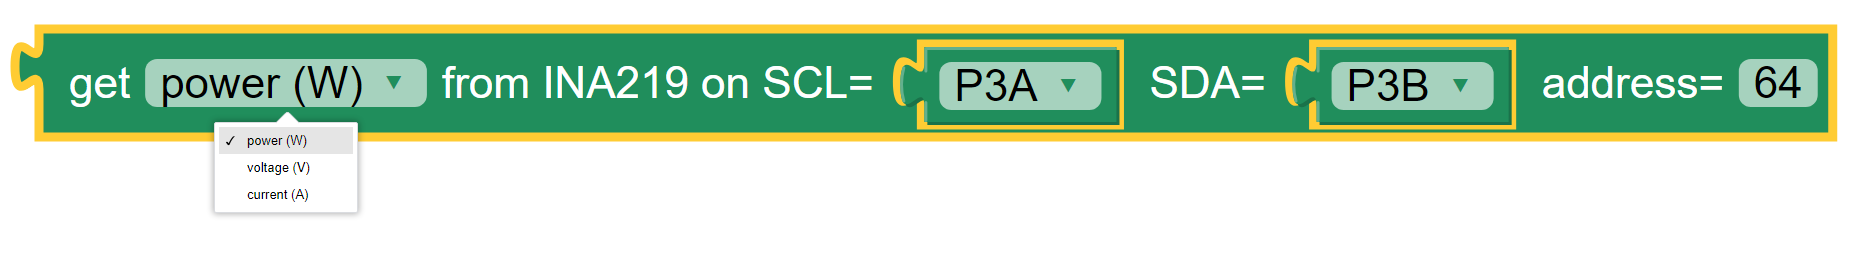
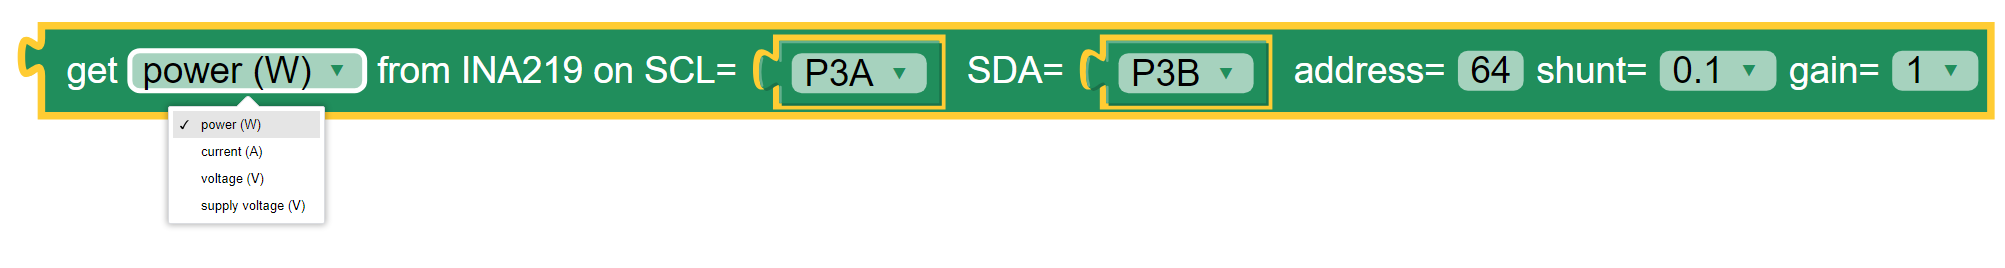
Updates actuators and sensors. Typos.

Changed region(s): [[0.0, 0.0597, 0.9978, 0.6269], [0.0624, 0.6269, 0.1871, 0.8657]]

diff --git a/docs/source/sensors.rst b/docs/source/sensors.rst
@@ -6,7 +6,7 @@ The Kookaberry contains two on-board sensors, being a 3-axis accelerometer and a
 3-axis magnetometer.  
 
 A large variety of external sensors may also be connected to the Kookaberry via its Pin connectors.  
-KookaBlockly supports many external sensors as are listed under the EXternal Sensors section.  
+KookaBlockly supports many external sensors as are listed under the **External Sensors** section.  
 These encompass measuring temperature, humidity, barometric pressure, soil moisture, light, electrical power, voltage and current.
 
 The Sensors category provides blocks that enable the use of these sensors.
@@ -24,7 +24,7 @@ Internal Sensors
 Get Accelerometer (raw)
 ~~~~~~~~~~~~~~~~~~~~~~~
 
-The Kookaberry contains an internal 3-axis accelerometer.  
+The Kookaberry contains an internal 3-axis accelerometer.  See https://www.explainthatstuff.com/accelerometers.html
 
 The accelerometer block provides the acceleration value of the selected axis (one of the X, Y and Z axes in the 
 sensor’s frame of reference), or the magnitude of the vector sum of all the axes.  The X, Y and Z axes are selected using the  drop-down list on 
@@ -62,21 +62,20 @@ The scale and offset factors can be typed in directly or provided by plugging in
 This block is useful to adjust the sensitivity of the accelerometer and to compensate for offsets such as the ever-present acceleration due to gravity.
 
 
-Get Compass Strength
-~~~~~~~~~~~~~~~~~~~~
+Get Compass
+~~~~~~~~~~~
 
-The Kookaberry has an internal 3-axis magnetometer which can measure the magnetic field strength it is subjected to.
+The Kookaberry has an internal 3-axis magnetometer (see https://en.wikipedia.org/wiki/Magnetometer) which can measure the magnetic field strength
+ it is subjected to in three axes (X, Y and Z), as well as the total magnetic field strength, and the compass heading.
+
+ * The readings for magnetic field strength are in Gauss.
+ * The reading for ``heading`` are in degrees in the range ``0`` to ``359`` with ``0`` being North
 
 .. image:: images/sensors-get-compass-strength.png
-   :height: 100
+   :height: 120
    :align: center
 
 
-The value returned is an integer that is the vector sum of the xyz components of the magnetic field experienced by the sensor.
-
-.. note::
-
-   Blocks are missing for compass_get_xyz() and compass.get_heading()
 
 
 External Sensors
@@ -85,9 +84,10 @@ External Sensors
 Get Temperature from DS18x20
 ~~~~~~~~~~~~~~~~~~~~~~~~~~~~
 
-The DS18x20 is an electronic temperature probe and this DS18x20 value block enables 
-reading of the probe and returns the temperature in degrees centigrade.  The drop-down box on this 
-block enables selection of which connector the sensor is attached to.
+The DS18B20 Probe is a waterproof digital temperature sensor that can measure temperature from -55°C to + 125°C with an accuracy of 0.5 ° C.
+
+This block enables reading of the probe and returns the temperature in degrees centigrade.  The drop-down box on this 
+block enables selection of which :doc:`Ppn` connector the sensor is attached to.
 
 .. image:: images/sensors-get-temp-ds18b20.png
    :height: 120
@@ -98,16 +98,22 @@ The DS18x20 sensor is used for measuring temperature in air and in liquid.
 
 The sensor is pre-calibrated and performs all of the temperature calculations within the sensor.
 
+Learn how to use the sensor here: https://learn.auststem.com.au/peripheral/ds18b20/
+
 Get Temperature from NTC
 ~~~~~~~~~~~~~~~~~~~~~~~~
  
 The NTC (Negative Temperature Coefficient) thermocouple sensor works through measuring its resistance which reduces as temperature rises.  
 The Kookaberry performs the necessary calculations to convert the sensor’s resistance to a temperature reading in degrees centigrade.
 
+See also https://www.explainthatstuff.com/howthermocoupleswork.html for an explanation of thermocouples.
+
 The options on the NTC value block are:
-•	The connector to which the sensor is attached
-•	The parameters A, B and C are the coefficients used in the Stein-Hart equation that is used to convert thermocouple resistance to temperature.  
-Explaining this in more depth is beyond the scope of this manual.  It is recommended that the default values not be altered.
+
+* The connector to which the sensor is attached
+* The parameters A, B and C are the coefficients used in the Stein-Hart equation that is used to convert thermocouple resistance to temperature.  
+  Explaining this in more depth is beyond the scope of this manual.  It is recommended that the default values not be altered.
+
 
 .. image:: images/sensors-get-temp-ntc.png
    :height: 120
@@ -140,11 +146,17 @@ The DHT sensors are only suitable for measuring air temperature.
 
 The difference between the two sensor types is that the slightly more expensive DHT22 sensor has a higher level of accuracy and precision.  
 
+* the DHT11 temperature range is from 0 to 50 degrees Celsius with +-2 degrees accuracy.
+* the DHT11 humidity range is from 20 to 80% with 5% accuracy.
+* the DHT22 temperature measuring range is from -40 to +125 degrees Celsius with +-0.5 degrees accuracy.
+* the DHT22 humidity measuring range is from 0 to 100% with 2-5% accuracy.
+
 Please be sure to select the type of DHT sensor that matches the connected sensor or else erroneous readings will result.
 
 The manufacturers of the DHT11 and DHT22 sensors recommend an interval between successive readings of no less than 2 seconds.  
 Attempting shorter intervals will result in no reading and could also cause the Kookaberry script to terminate.
 
+Learn more about using the DHT11 here: https://learn.auststem.com.au/peripheral/dht11/ and the DHT22 here: https://learn.auststem.com.au/peripheral/dht22/
 
 Get Temperature / Humidity / Pressure from BME280
 ~~~~~~~~~~~~~~~~~~~~~~~~~~~~~~~~~~~~~~~~~~~~~~~~~
@@ -178,7 +190,7 @@ The first drop-down box provides the list of measurements available which are:
     
 
 .. image:: images/sensors-get-temp-bme.png
-   :height: 120
+   :height: 140
    :align: center
 
 The second drop-down box provides two options for the BME280's address on the I2C bus, that is ``0x77`` or ``0x76``.  
@@ -196,7 +208,7 @@ Any other of the Kookaberry's connectors (**P1** to **P5**) can also be used.
 A string block can also be used instead of the drop-down selector blocks and the name of the Pin typed into the block.
 
 .. image:: images/sensors-get-temp-bme-pins.png
-   :height: 120
+   :height: 180
    :align: center
 
 
@@ -206,7 +218,13 @@ Get Acceleration / Compass Strength from LSM303
 The LSM303 sensor contains a 3-axis accelerometer and a 3-axis magnetometer.  
 The Kookaberry contains a LSM303 sensor internally, and this block provides functionality to use an externally connected LSM303 sensor.
 
-This sensor can provide acceleration values in all three axes, as well as total acceleration strength, as well as compass strength.
+This sensor can provide acceleration values and magnetic field strength in all three axes, 
+total acceleration and total magnetic field strengths, as well as compass heading.
+
+See https://www.explainthatstuff.com/accelerometers.html for a simple explanation of what an accelerometer is.
+
+For an explanation of what a magnetometer is, see https://en.wikipedia.org/wiki/Magnetometer.
+
 
 The interface with the Kookaberry is the I2C serial communications bus. I2C stands for Inter-Integrated-Circuit Communications (IIC or I2C).
 See https://en.wikipedia.org/wiki/I%C2%B2C for more detail.
@@ -223,16 +241,20 @@ The **Get Acceleration from LSM303** block is shown below with the three sets of
 
 The first drop-down box provides the list of measurements available which are:
 
-1.  X axis acceleration in metres / second squared
-2.  Y axis acceleration in metres / second squared
-3.  Z axis acceleration in metres / second squared
-4.  Acceleration total magnitude in metres / second squared
-5.  Compass total magnetic strength in ...
+1.  Acceleration total magnitude in metres / second squared
+2.  X axis acceleration in metres / second squared
+3.  Y axis acceleration in metres / second squared
+4.  Z axis acceleration in metres / second squared
+5.  Compass total magnetic field strength in Gauss
+6.  Compass heading in degrees from North
+7.  Magnetic field strength along the X axis in Gauss
+8.  Magnetic field strength along the Y axis in Gauss
+9.  Magnetic field strength along the Z axis in Gauss
 
 
 
 .. image:: images/sensors-get-accelerometer-lsm303.png
-   :height: 120
+   :height: 180
    :align: center
 
 
@@ -243,7 +265,7 @@ Any other of the Kookaberry's connectors (**P1** to **P5**) can also be used.
 A string block can also be used instead of the drop-down selector blocks and the name of the Pin typed into the block.
 
 .. image:: images/sensors-get-accelerometer-lsm303-pins.png
-   :height: 120
+   :height: 180
    :align: center
 
 
@@ -270,7 +292,7 @@ When using a VEML7700 circuit board it is important that these signals are conne
 The **Get Lux from VEML7700** block is shown below with the two sets of options available from the drop-down boxes on the block.
 
 .. image:: images/sensors-get-lux-veml7700-pins.png
-   :height: 120
+   :height: 180
    :align: center
 
 The two drop-down boxes provide options as to which Pins are used for the SCL and SDA signals on the Kookaberry.
@@ -282,6 +304,13 @@ A string block can also be used instead of the drop-down selector blocks and the
 
 Get Power / Voltage / Current from INA219
 ~~~~~~~~~~~~~~~~~~~~~~~~~~~~~~~~~~~~~~~~~
+
+.. note:: 
+   This section is still under development in regard to the ranges and resolutions of readings that are configured by KookaBlockly.
+
+
+
+
 
 The INA219 sensor measures direct current, voltage and power from the circuit to which it is connected. It is commonly called a wattmeter.
 
@@ -300,14 +329,19 @@ The **Get Power / Voltage / Current from INA219** block is shown below with the 
 
 The first drop-down box provides the list of measurements available which are:
 
-1.  Power in watts DC (direct current).  The range is 0 to 206 watts with a resolution of 20 milli-watts.
-2.  Voltage in volts DC. The range is 0 to +/- 26 volts with a resolution of 4 milli-volts.
-3.  Current in amperes (amps) DC. The range is 0 to +/- 8 amps with a resolution of 1 milli-amps.
+1.  Power in watts DC (direct current).  
+2.  Current in amperes (amps) DC. 
+3.  Load voltage in volts DC. 
+4.  Power supply voltage in volts DC. 
 
 .. note::
 
-   The range and resolution of the INA219 sensor readings are set by the value of an internal shunt resistor and the interfacing software. 
-   The shunt resistor in the default configuration is 10 milli-ohms.
+   The range and resolution of the INA219 sensor readings are set by the value of an internal shunt resistor, the gain, and the interfacing software. 
+
+
+.. important:: 
+   The safe operating range of the INA219 is given by the device's data sheet.  Nominally the maximum voltage is 26 volts, maximum current is 8 amps.
+
 
 
 .. image:: images/sensors-get-power-ina219.png
@@ -328,9 +362,38 @@ A string block can also be used instead of the drop-down selector blocks and the
 
 
 
-The final option on the block is the I2C address of the board.  Up to four INA219 sensors may be connected to a single I2C bus 
+The fourth option on the block is the I2C address of the board.  Up to four INA219 sensors may be connected to a single I2C bus 
 with any of the addresses ``64`` (hex ``0x40``), ``65`` (hex ``0x41``), ``68`` (hex ``0x44``) or ``69`` (hex ``0x45``).  Each board must have a unique I2C address.
 To change the address in the block simply click on the filed and over-type the default value.
+
+.. image:: images/sensors-get-power-ina219-address.png
+   :height: 120
+   :align: center
+
+
+The fifth option is a drop-down list of shunt resistors fitted to the sensor.  
+The correct value can be obtained by consulting the data sheet for the sensor board that is being used. 
+This value must be set correctly or else erroneous readings will result.
+There are three options for shunt resistor values: ``0.01`` ohms, ``0.05`` ohms, and ``0.1`` ohms. 
+Larger shunt resistance will improve the resolution of the current reading but will reduce the maximum current that can be measured.
+Care must also be taken to not exceed the shunt resistor's power rating which is typically 2 watts.  
+Power in the shunt resistor is dissipated as heat and is equal to i^2 x R, where i is current in amps, and R the resistance in ohms.
+
+.. image:: images/sensors-get-power-ina219-shunt.png
+   :height: 120
+   :align: center
+
+
+The sixth option is a drop-down of gains applied to the current readings, and consequently the power readings.
+The available values for gain are: ``1``, ``1/2``, ``1/4`` and ``1/8``.
+Lower gains improve the resolution of the current readings, useful for monitoring low-current devices, 
+but they also limit the range of current that can be read by the sensor.
+
+
+.. image:: images/sensors-get-power-ina219-gain.png
+   :height: 120
+   :align: center
+
 
 
 Get Soil Moisture
@@ -364,6 +427,11 @@ These are the voltages given by the sensor when it is dry and when it is wet. Th
 
 These value can be tuned with experience and the use of a calibrated soil moisture meter to improve the accuracy of the readings.
 
+Learn more about using the resistive soil moisture sensor here: https://learn.auststem.com.au/peripheral/analogue-soil-moisture-sensor/
 
 
+More Sensor Learning Resources
+------------------------------
+
+More information on sensors that can be used with the Kookaberry is here: https://learn.auststem.com.au/peripherals/
  

diff --git a/docs/source/pins.rst b/docs/source/pins.rst
@@ -97,7 +97,7 @@ volts DC.
    :align: center
 
 
-.. note:: 
+.. important:: 
     The allowable input voltage range for the Kookaberry is 0 volts to +3.3 volts DC.  
     Applying voltages outside that range may irreparably damage the Kookaberry.
 
@@ -112,7 +112,7 @@ This value block designates the selected pin as an analogue input and returns a 
    :height: 120
    :align: center
 
-.. note:: 
+.. important:: 
     The allowable input voltage range for the Kookaberry is 0 volts to +3.3 volts DC.  
     Applying voltages outside that range may irreparably damage the Kookaberry.
 
@@ -131,7 +131,7 @@ Applying +3.3 volts DC to the input Pin will resturn a value of ``100``.
    :align: center
 
 
-.. note:: 
+.. important:: 
     The allowable input voltage range for the Kookaberry is 0 volts to +3.3 volts DC.  
     Applying voltages outside that range may irreparably damage the Kookaberry.
 
@@ -189,7 +189,7 @@ piano, for example.  Duty cycle is usually set to 50% but other interesting harm
 produced by varying the duty cycle over a limited range around 50%.  Additional circuitry is also 
 required to successfully drive a loudspeaker.
 
-.. note::
+.. important::
   Please note that motors and loudspeakers should not be directly plugged into a Kookaberry 
   connector.  These devices require special electronics to supply more power.  
   

diff --git a/docs/source/actuators.rst b/docs/source/actuators.rst
@@ -61,7 +61,7 @@ The block has two parameters:
 
 
 
-.. note:
+.. important::
   Please note that all but the smallest 9g servos should not be directly plugged into a 
   Kookaberry connector.  These devices require special electronics to supply them with more power.  
   Plugging in large servos without the necessary driving electronics may shut down and possibly irreparably damage the Kookaberry!
@@ -110,7 +110,7 @@ The block has two parameters:
 
 
 
-.. note:
+.. important::
   Please note that all but the smallest 9g servos should not be directly plugged into a 
   Kookaberry connector.  These devices require special electronics to supply them with more power.  
   Plugging in large servos without the necessary driving electronics may shut down and possibly irreparably damage the Kookaberry!
@@ -139,4 +139,10 @@ The block has three parameters:
    :align: center
 
 
- 
+Learn more about using servos here: https://learn.auststem.com.au/peripheral/micro-servo/
+
+
+More Actuator Learning Resources
+--------------------------------
+
+More information on using actuators with the Kookaberry can be found here: https://learn.auststem.com.au/peripherals/

diff --git a/docs/source/using.rst b/docs/source/using.rst
@@ -108,9 +108,9 @@ KookaBlockly script files have a type designation of ``.kby.py``.
 
 Selecting a script and pressing the dialogue's **Open** button, or alternatively double-clicking on a selected KookaBlockly script file will place a copy of that script in the KookaBlockly Workspace from where it can be modified, saved and run on the Kookaberry.
 
-.. Note::
+.. important::
     
-   **Important!** When assembling scripts from a number of files, the name of the last loaded file becomes the default for saving the script.  If the script is intended to be saved into a new or differently-named file then use the **Save As** button to give a different name to the file.
+   When assembling scripts from a number of files, the name of the last loaded file becomes the default for saving the script.  If the script is intended to be saved into a new or differently-named file then use the **Save As** button to give a different name to the file.
 
 Save 
   Saves the currently named script to the corresponding file. 

diff --git a/docs/source/logging.rst b/docs/source/logging.rst
@@ -93,8 +93,8 @@ and plug in text string value blocks with the names of each of the columns.
 
 .. note:: 
     KookaBlockly presently supports a maximum of four data items per file record.
-    If more data items are required then it is possible to use an **Advanced** block with the required MicroPython script in it.
+    If more data items are required then it is possible to use an :doc:`advanced` block with the required MicroPython script in it.
     The **Show Script** button on the **KookaBlockly** editor will open a window with the MicroPython script derived from the current KookaBlockly script.
     Hint: Use a **Log To File** block to model the first four data items, copy the equivalent MicroPython (it all has to be on one line), 
-    paste it into the **Advanced** block and modify it to suit your application.  
+    paste it into the :doc:`advanced` block and modify it to suit your application.  
     You will need to learn about MicroPython nonetheless to make it work correctly.

diff --git a/docs/source/conventions.rst b/docs/source/conventions.rst
@@ -94,6 +94,6 @@ Text Delimiters
 
 Many blocks contain text fields.  In KookaBlockly, text is enclosed by double-quotes ``"``, and these are automatically applied.
 
-However there are some exceptions, particularly in the **Advanced** block which permits any valid MicroPython statement to be entered.  
+However there are some exceptions, particularly in the :doc:`advanced` block which permits any valid MicroPython statement to be entered.  
 Here it is important to use the double-quotes ``"`` and no single quotes ``'`` to delimit text, as single-quotes are used in KookaBlockly's XML block code 
 and will be misinterpreted rendering the saved KookaBlockly file unusable (with manually correcting the XML block code).

diff --git a/docs/source/leds.rst b/docs/source/leds.rst
@@ -76,7 +76,7 @@ Pin
 pixel
     This is an integer commencing at ``0`` which specifies which pixel in the array will be set.
 
-.. note:: 
+.. important:: 
     The Kookaberry can only supply a limited amount of current power a NeoPixel array.  
     It is recommended to use no more than 8 NeoPixels, and also to limit the brightness of each to no more than ``50`` when using more than 4 NeoPixels.
 
@@ -95,4 +95,4 @@ RGB values
    RGB Primary Colour Combinations
 
 
-
+Learn more about using NeoPixels here: https://learn.auststem.com.au/peripheral/rgb-led/

diff --git a/docs/source/display.rst b/docs/source/display.rst
@@ -207,7 +207,7 @@ value block output of 0 or 1.
    
 
 
-.. Note::    The (x, y) coordinate is where the bottom left corner of the display text is positioned.
+.. note::    The (x, y) coordinate is where the bottom left corner of the display text is positioned.
 
 
 Display Image
